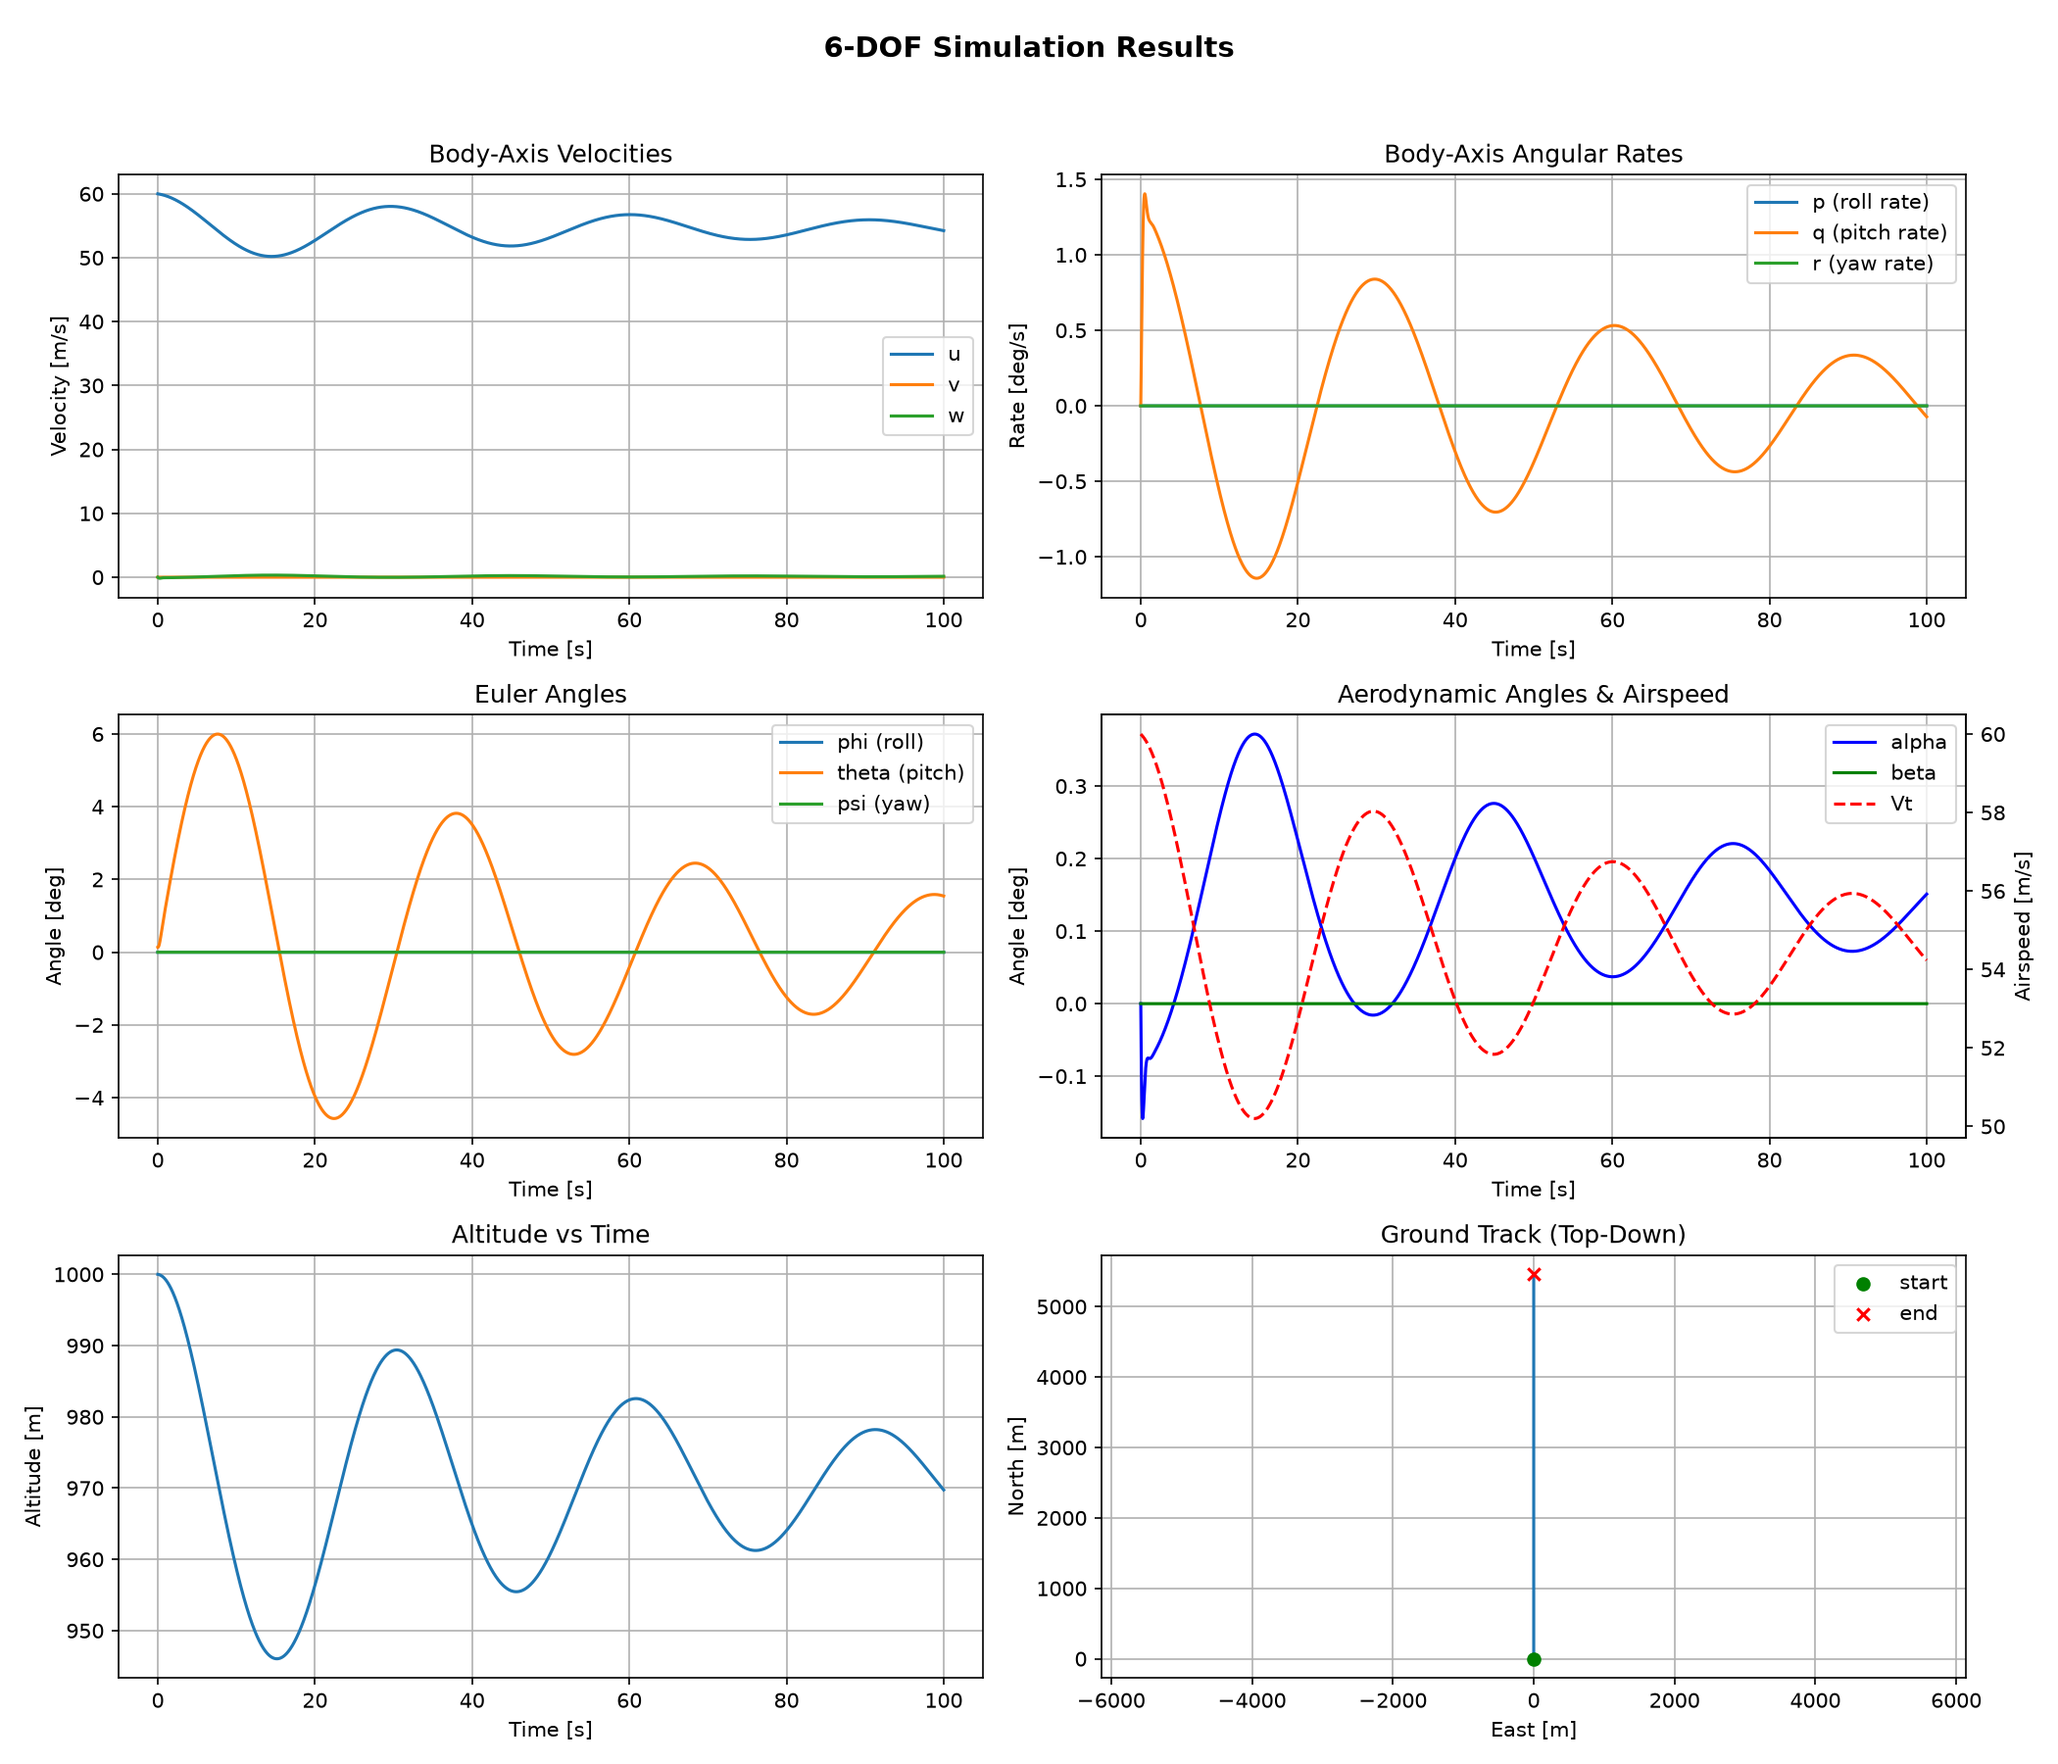
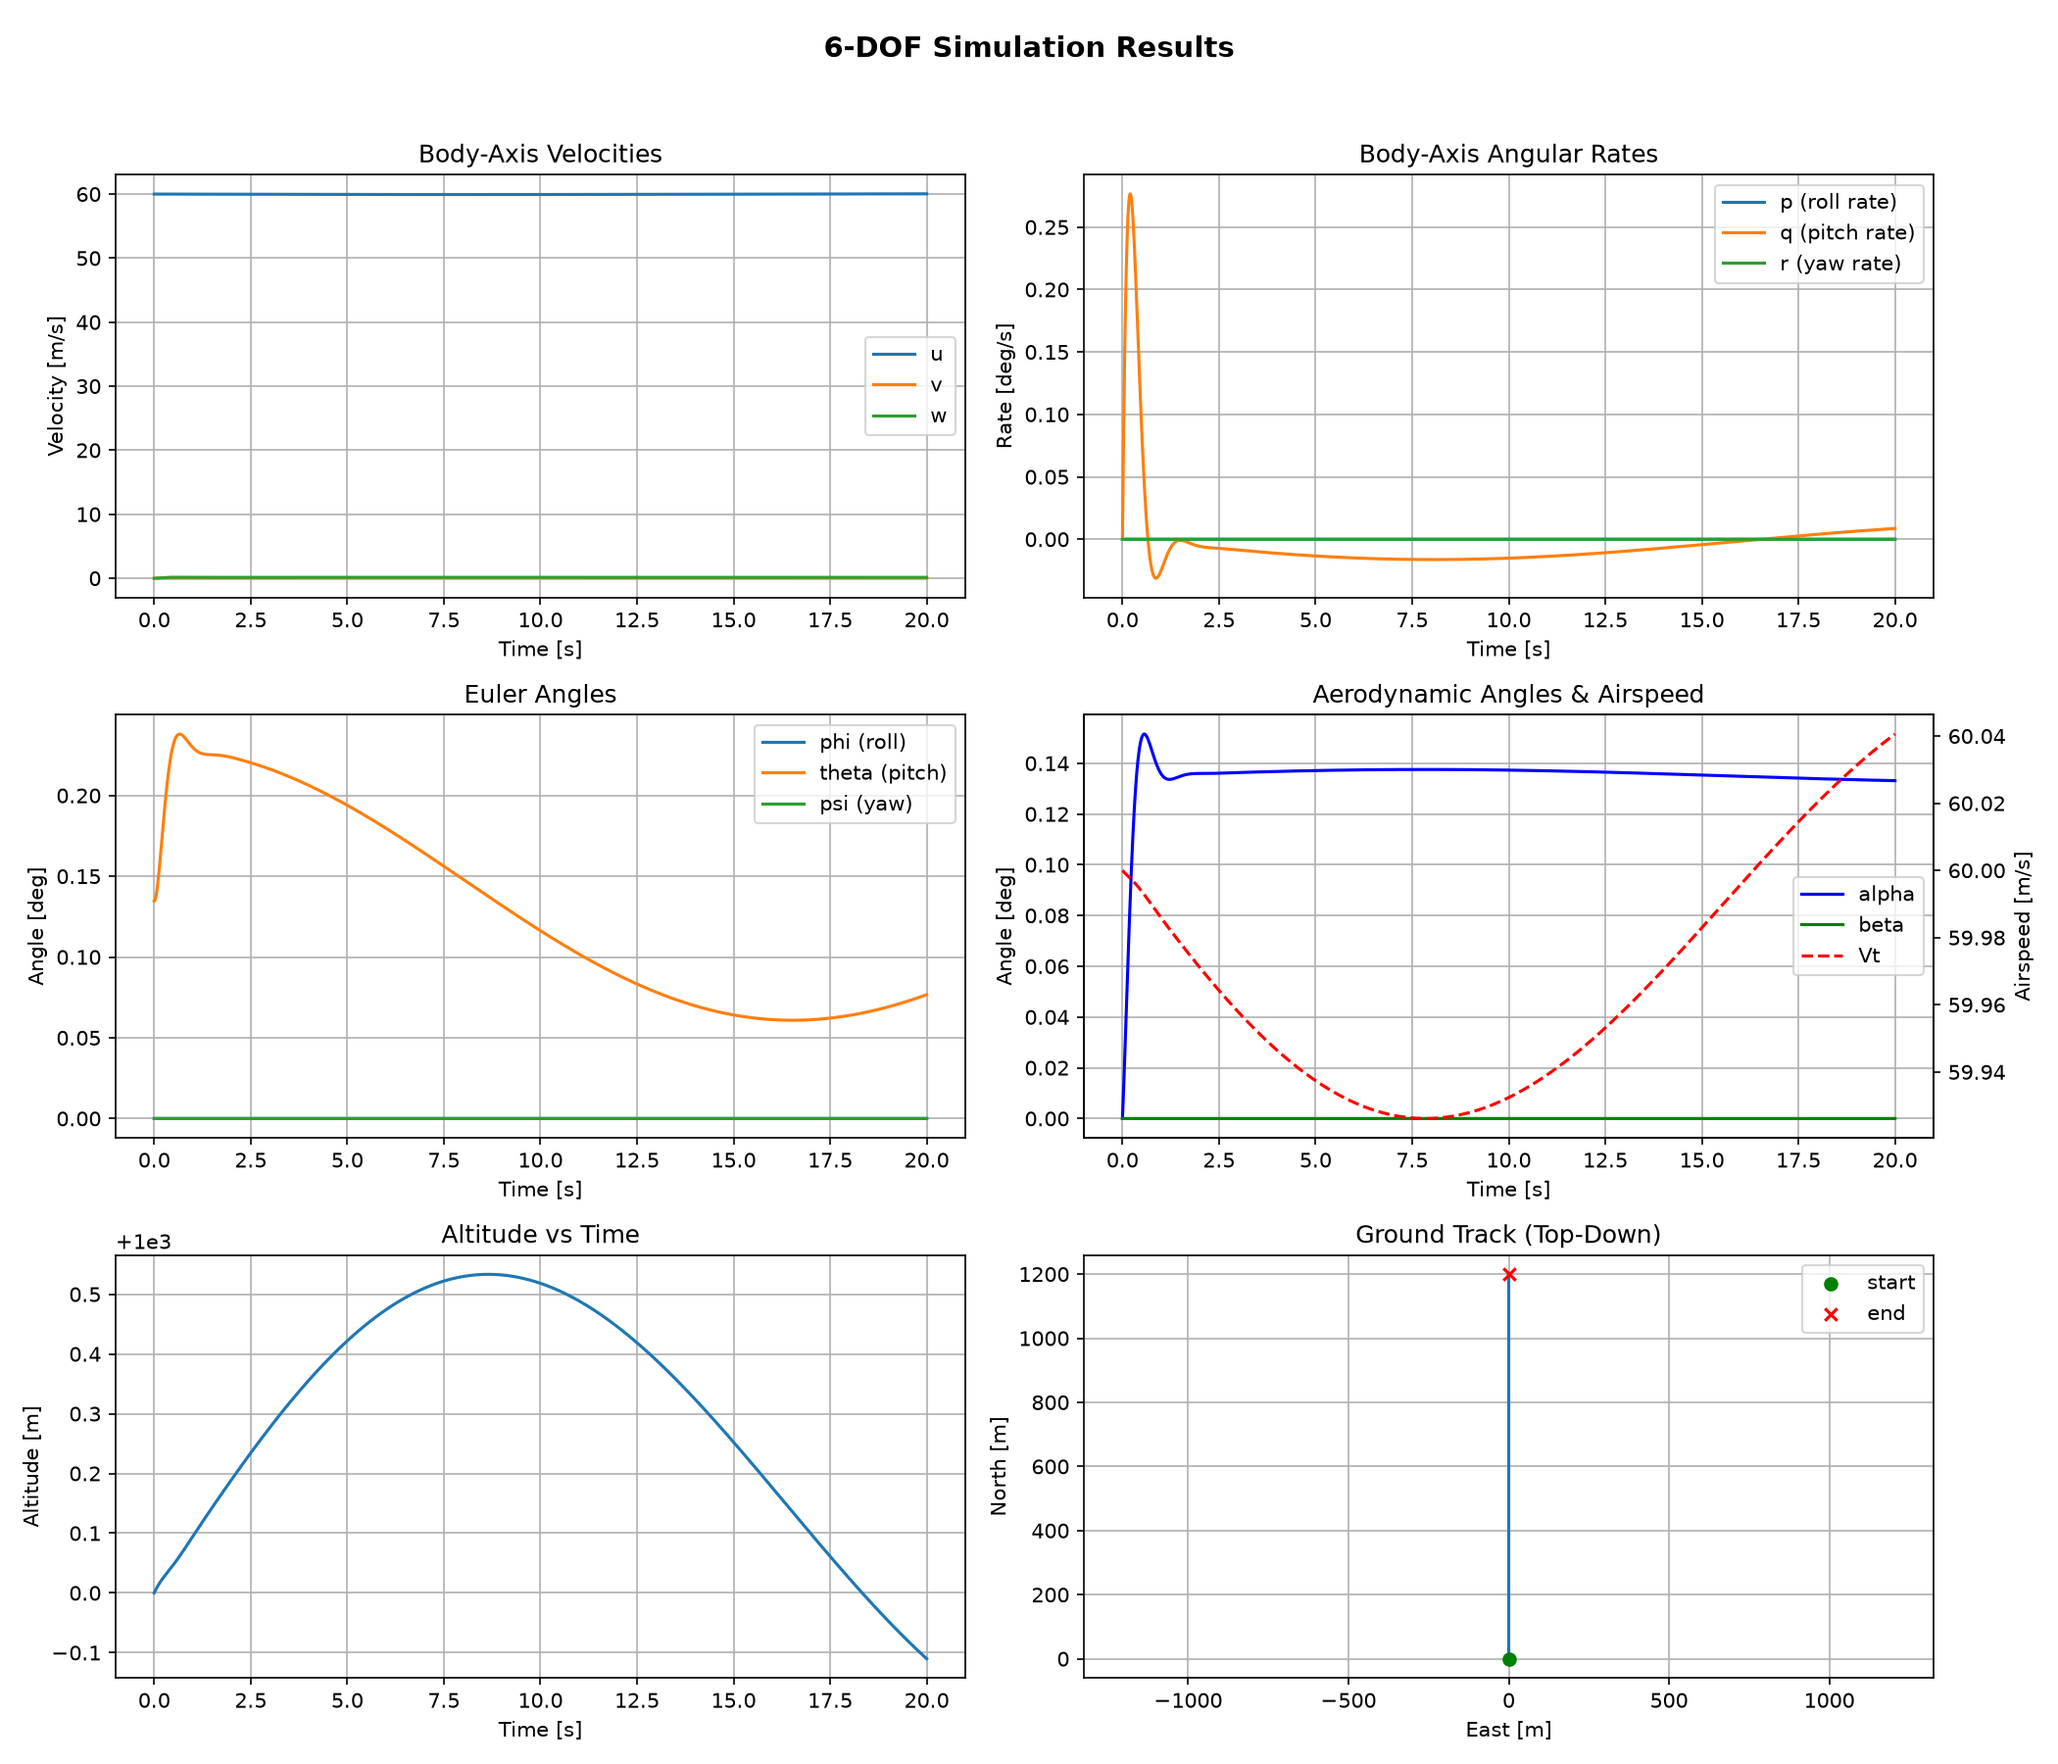
changed: altitude sign, simulation time

diff --git a/main.py b/main.py
@@ -36,7 +36,7 @@ x0 = np.array([
 
     0.0,        # PN
     0.0,        # PE
-    1000        # PD
+    -1000        # PD
 
 ], dtype=float)
 
@@ -56,7 +56,7 @@ simulation = Simulation(
     integrator=integrator,
     initial_state=x0,
     controls=controls,
-    t_final=100.0
+    t_final=20.0
 )
 
 time, state_history = simulation.run()

diff --git a/results.py b/results.py
@@ -101,7 +101,7 @@ class PostProcessor:
 
     def plot_altitude(self, ax=None):
         ax = ax or plt.subplots()[1]
-        ax.plot(self.t, self.PD)
+        ax.plot(self.t, -self.PD)
         ax.set_xlabel('Time [s]')
         ax.set_ylabel('Altitude [m]')
         ax.set_title('Altitude vs Time')
